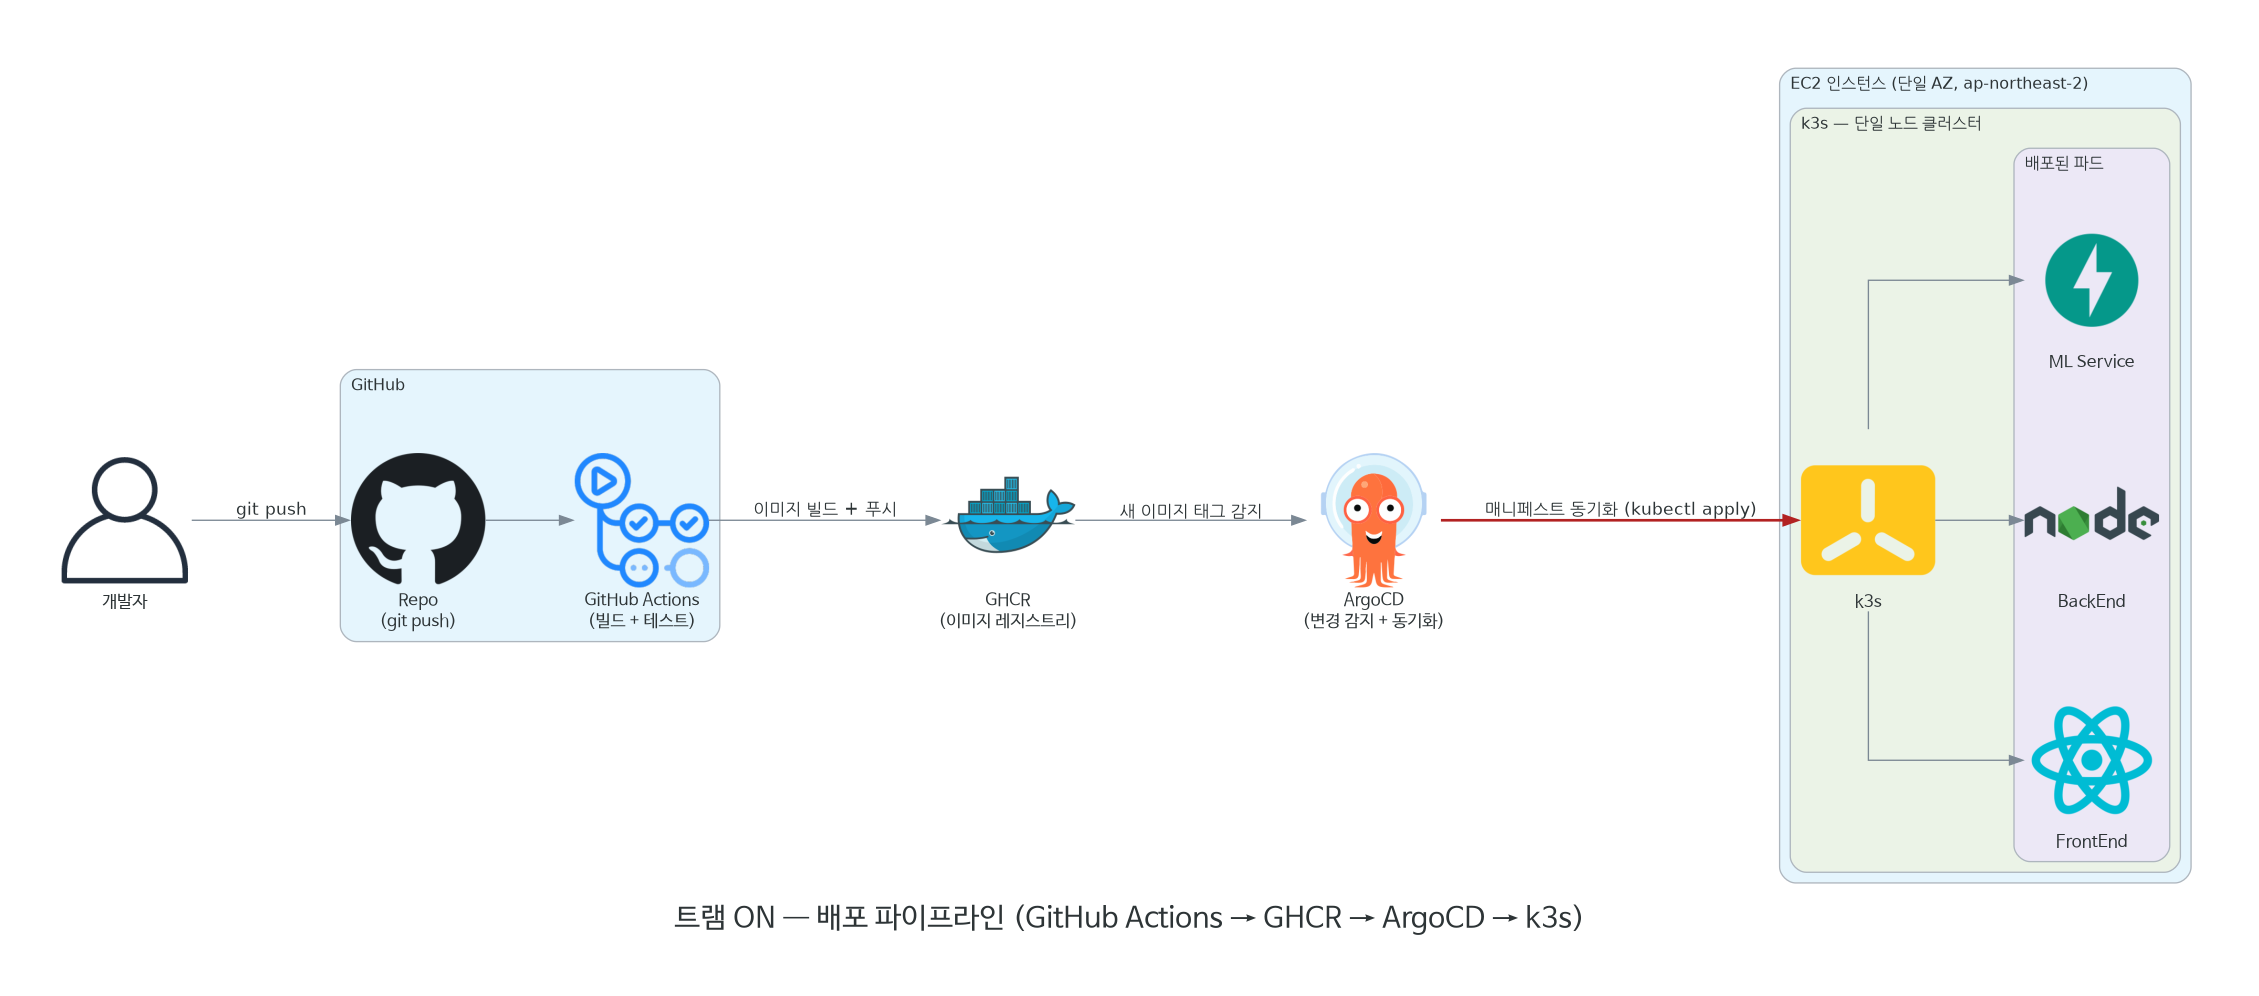
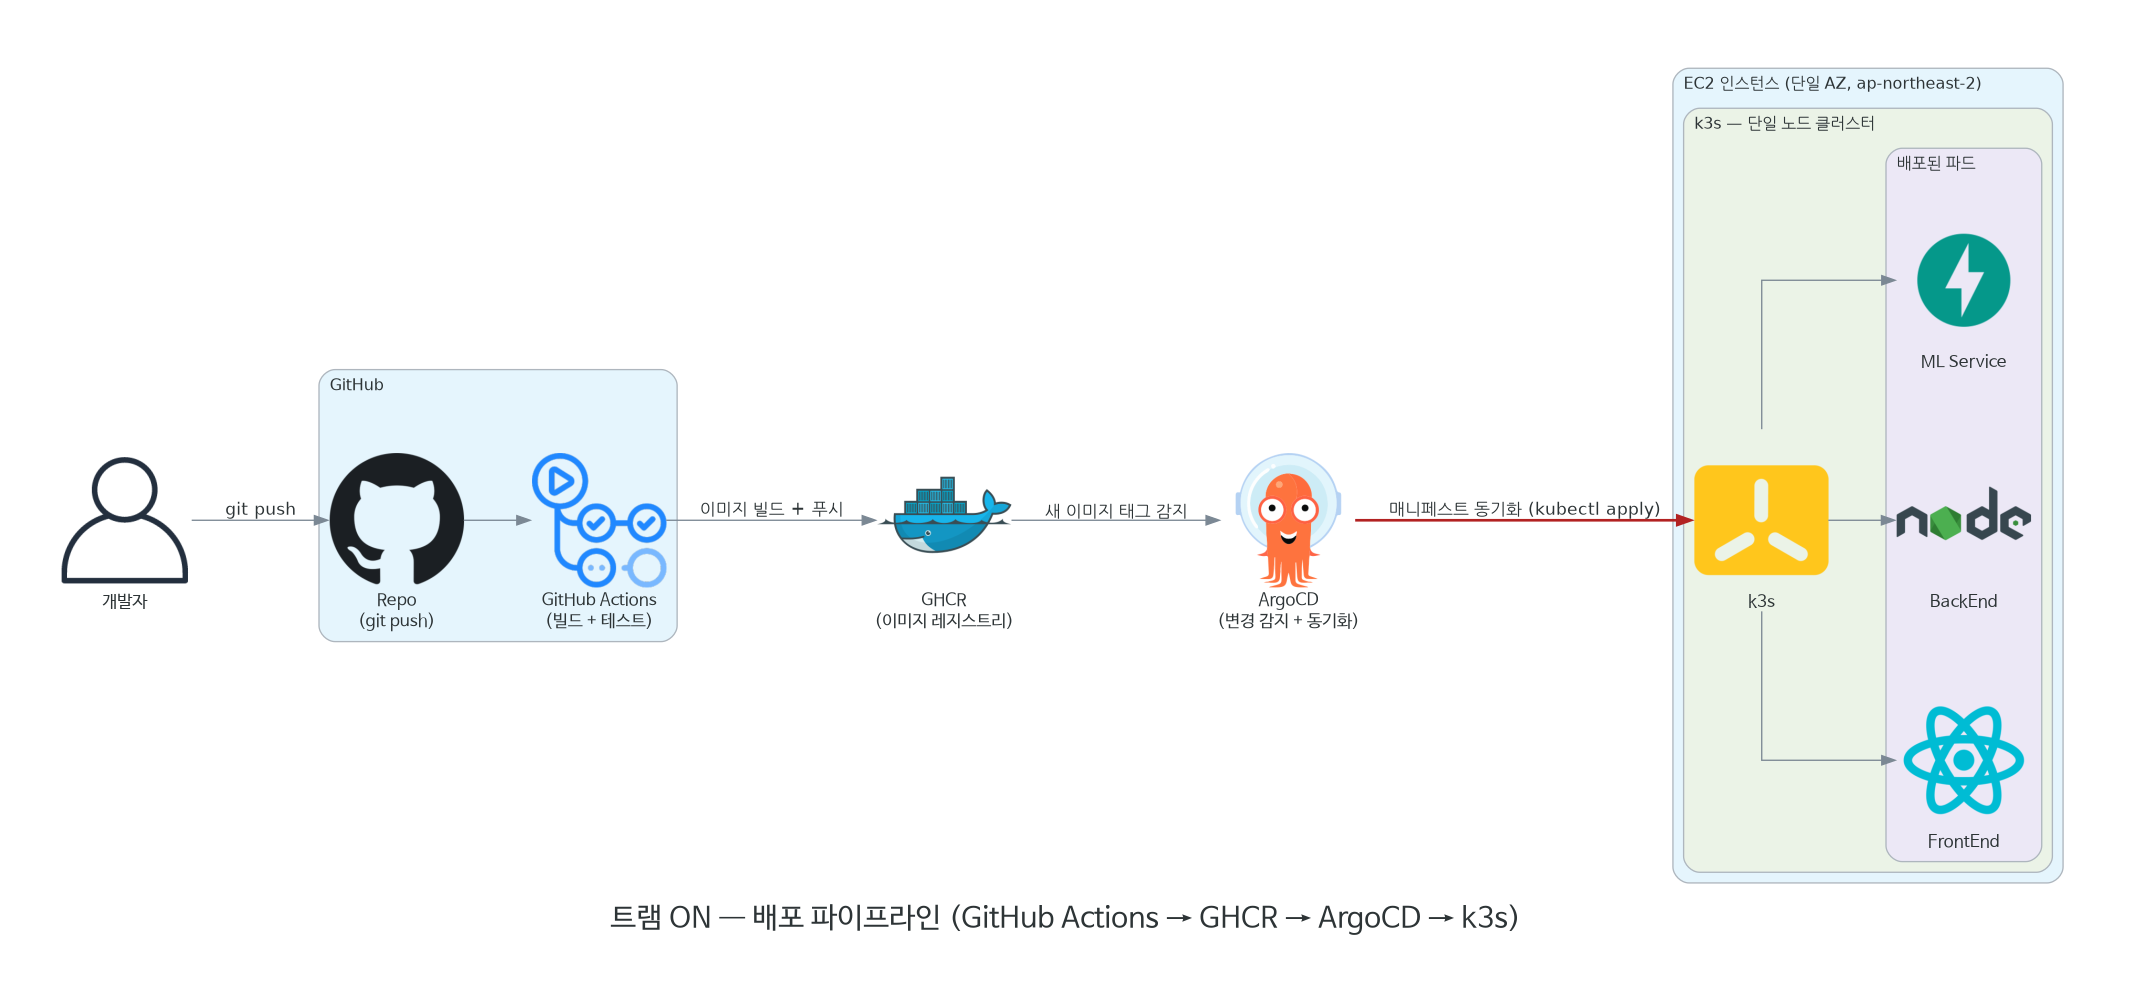
fix: 아키텍처 다이어그램 가로 비율 개선 + README 이미지 크기 제한
- direction TB→LR, ranksep 조정으로 세로 스크롤 문제 해결
- README/docs 이미지 삽입을 <img width> 태그로 변경

diff --git a/scripts/generate-architecture-diagram.py b/scripts/generate-architecture-diagram.py
@@ -33,7 +33,7 @@ GRAPH_ATTR = {
     "bgcolor": "white",
     "pad": "0.6",
     "nodesep": "0.6",
-    "ranksep": "0.9",
+    "ranksep": "0.7",
     "splines": "ortho",
 }
 NODE_ATTR = {"fontname": FONT, "fontsize": "13"}
@@ -44,7 +44,7 @@ def system_architecture() -> None:
     with Diagram(
         "트램 ON — 시스템 아키텍처 (EC2 단일 인스턴스 · ap-northeast-2 · 단일 AZ)",
         filename="docs/diagrams/system-architecture",
-        direction="TB",
+        direction="LR",
         show=False,
         graph_attr=GRAPH_ATTR,
         node_attr=NODE_ATTR,

diff --git a/docs/architecture.md b/docs/architecture.md
@@ -2,7 +2,7 @@
 
 ## 전체 구조
 
-![시스템 아키텍처](diagrams/system-architecture.png)
+<img src="diagrams/system-architecture.png" width="900" alt="시스템 아키텍처">
 
 단일 EC2 인스턴스 위에서 k3s 하나로 프론트엔드/백엔드/DB/모니터링까지 전부
 운영합니다. 지금 트래픽 규모에서는 멀티 노드·멀티 AZ가 필요하지 않다고 판단해
@@ -60,7 +60,7 @@ flowchart TB
 
 ## 배포 파이프라인
 
-![배포 파이프라인](diagrams/cicd-pipeline.png)
+<img src="diagrams/cicd-pipeline.png" width="900" alt="배포 파이프라인">
 
 코드 push부터 실제 반영까지 사람이 수동으로 개입하는 지점이 없습니다 —
 GitHub Actions가 빌드·테스트·이미지 푸시를 하고 ArgoCD가 그 변경을 감지해
